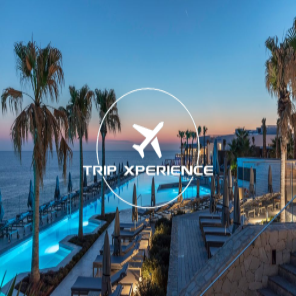
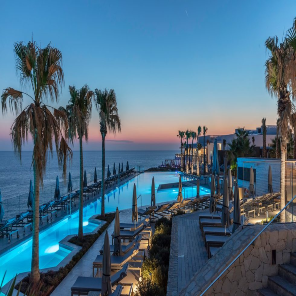
actualizacion img index

diff --git a/scss/_commons.scss b/scss/_commons.scss
@@ -106,6 +106,82 @@
             }
 }
 
+
+// .container-trip{
+
+//     figure{
+//         position: relative;
+//         cursor: pointer;
+//         width: 100%;
+//         overflow: hidden;
+//         border-radius: 6px;
+
+//         &:hover > .hover{
+//             opacity: 0.7;
+//             visibility: visible;
+//         }
+//         &:hover > img{
+//             transform: scale(1.1);
+//         }
+//     }
+
+//     .hover{
+//         position: absolute;
+//         top: 0;
+//         width: 100%;
+//         height: 100%;
+//         background-color: $transparencia;
+//         transition: all 400ms ease-out;
+//         opacity: 1;
+//         visibility: hidden;
+//         text-align: center;
+//     }
+
+// }
+.contenedor{
+    figure{
+        margin-top: 20px;
+        position:relative;
+        height: 45%;
+        cursor: pointer;
+        width: 100%;
+        overflow: hidden;
+        border-radius: 6px;
+
+        &:hover > .hover{
+            opacity: 1;
+            visibility: visible;
+        }
+        &:hover > img{
+            transform: scale(1.3);
+        }
+
+        img{
+            width: 110%;
+            height: 100%;
+            transition: all 400ms ease-out;
+            will-change: transform; 
+        }
+        .hover{
+            position: absolute;
+            top: 0;
+            width: 100%;
+            height: 100%;
+            background-color:$transparencia;
+            transition: all 400ms ease-out;
+            opacity: 0;
+            visibility: hidden;
+            text-align: center;
+            }
+        }
+    }
+
+
+
+
+
+
+
 footer{
     background-color: $mainColor;
 }

diff --git a/scss/_mediaDesktop.scss b/scss/_mediaDesktop.scss
@@ -135,36 +135,36 @@
         justify-content: center;
     }
 
-    .container-trip{
+    // .container-trip{
 
-        figure{
-            position: relative;
-            cursor: pointer;
-            width: 100%;
-            overflow: hidden;
-            border-radius: 6px;
+    //     figure{
+    //         position: relative;
+    //         cursor: pointer;
+    //         width: 100%;
+    //         overflow: hidden;
+    //         border-radius: 6px;
 
-            &:hover > .hover{
-                opacity: 0.7;
-                visibility: visible;
-            }
-            &:hover > img{
-                transform: scale(1.1);
-            }
-        }
-    }
+    //         &:hover > .hover{
+    //             opacity: 0.7;
+    //             visibility: visible;
+    //         }
+    //         &:hover > img{
+    //             transform: scale(1.1);
+    //         }
+    //     }
+    // }
     
-    .hover{
-        position: absolute;
-        top: 0;
-        width: 100%;
-        height: 100%;
-        background-color: $transparencia;
-        transition: all 400ms ease-out;
-        opacity: 0;
-        visibility: hidden;
-        text-align: center;
-    }
+    // .hover{
+    //     position: absolute;
+    //     top: 0;
+    //     width: 100%;
+    //     height: 100%;
+    //     background-color: $transparencia;
+    //     transition: all 400ms ease-out;
+    //     opacity: 1;
+    //     visibility: hidden;
+    //     text-align: center;
+    // }
 
     
 

diff --git a/css/main.css b/css/main.css
@@ -86,6 +86,40 @@
   transform: scale(1);
 }
 
+.contenedor figure {
+  margin-top: 20px;
+  position: relative;
+  height: 45%;
+  cursor: pointer;
+  width: 100%;
+  overflow: hidden;
+  border-radius: 6px;
+}
+.contenedor figure:hover > .hover {
+  opacity: 1;
+  visibility: visible;
+}
+.contenedor figure:hover > img {
+  transform: scale(1.3);
+}
+.contenedor figure img {
+  width: 110%;
+  height: 100%;
+  transition: all 400ms ease-out;
+  will-change: transform;
+}
+.contenedor figure .hover {
+  position: absolute;
+  top: 0;
+  width: 100%;
+  height: 100%;
+  background-color: rgba(82, 82, 82, 0.8784313725);
+  transition: all 400ms ease-out;
+  opacity: 0;
+  visibility: hidden;
+  text-align: center;
+}
+
 footer {
   background-color: #69adbe;
 }
@@ -289,31 +323,6 @@ nav {
     display: grid;
     grid-template-columns: 1fr 1fr 1fr 1fr;
     justify-content: center;
-  }
-  .container-trip figure {
-    position: relative;
-    cursor: pointer;
-    width: 100%;
-    overflow: hidden;
-    border-radius: 6px;
-  }
-  .container-trip figure:hover > .hover {
-    opacity: 0.7;
-    visibility: visible;
-  }
-  .container-trip figure:hover > img {
-    transform: scale(1.1);
-  }
-  .hover {
-    position: absolute;
-    top: 0;
-    width: 100%;
-    height: 100%;
-    background-color: rgba(82, 82, 82, 0.8784313725);
-    transition: all 400ms ease-out;
-    opacity: 0;
-    visibility: hidden;
-    text-align: center;
   }
   .footerMobile {
     display: none;

diff --git a/index.html b/index.html
@@ -281,16 +281,16 @@
 
     <article class="container-trip">
       <figure>
-        <img src="img/imagenes/sin-text/ibiza.png" alt=""> 
+        <img src="img/imagenes/ibiza.png" alt=""> 
         <div class="hover">
-          <img src="img/logo/xperience.png" alt="">
+          <img src="img/logo/xperience (2).png" alt="">
         </div>       
       </figure>
     </article>
 
     <article class="container-trip">
       <figure>
-        <img src="img/imagenes/sin-text/nieveBrc.png" alt="">
+        <img src="img/imagenes/nieveBrc.png" alt="">
         <div class="hover">
           <img src="img/logo/card.png" alt="cards">
         </div>
@@ -299,9 +299,18 @@
 
     <article class="container-trip">
       <figure>
-        <img src="img/imagenes/sin-text/paris-fr.png" alt="">     
+        <img src="img/imagenes/paris-fr.png" alt="">     
         <div class="hover">
           <img src="img/logo/promociones.png" alt="">
+        </div>
+      </figure>
+    </article>
+
+    <article class="container-trip">
+      <figure>
+        <img src="img/imagenes/passport.jpg" alt="">     
+        <div class="hover">
+          <img src="img/logo/low-cost.png" alt="">
         </div>
       </figure>
     </article>
